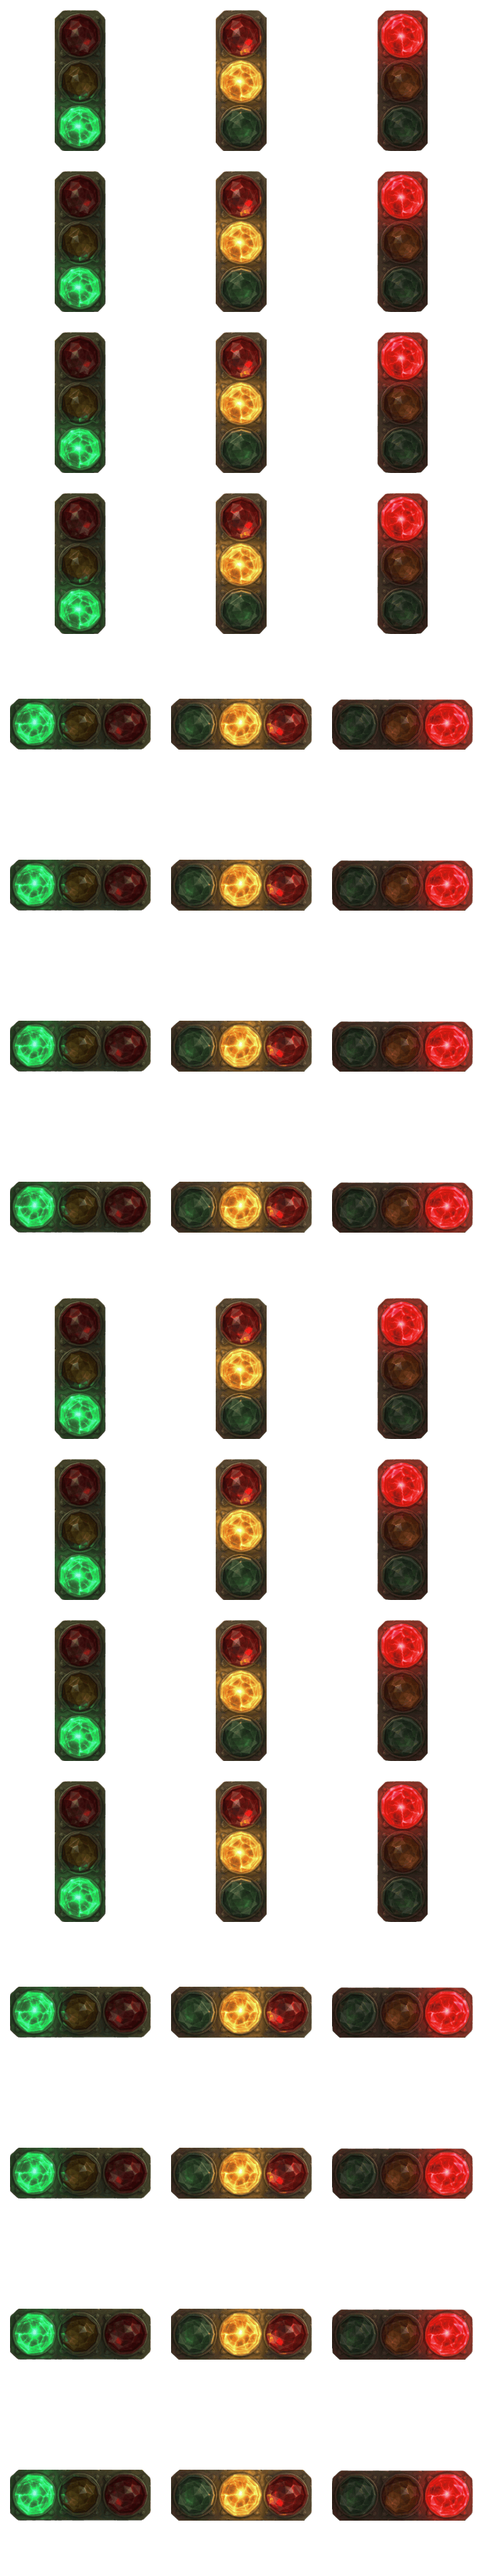
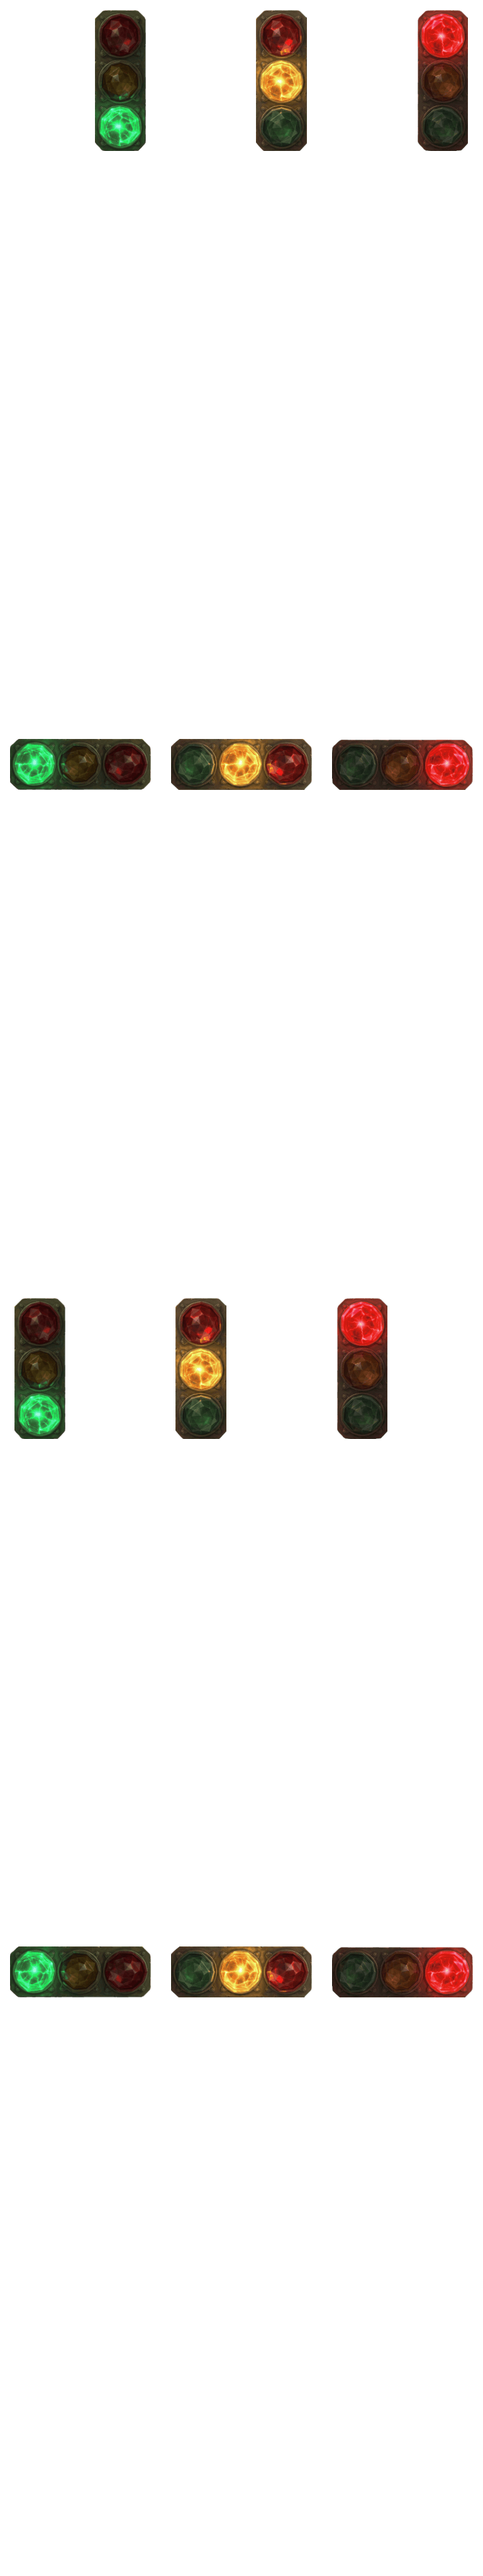
红绿灯最终版本

diff --git a/DEV_CHANGES.md b/DEV_CHANGES.md
@@ -13,6 +13,9 @@
 - **视觉方案更新**：信号状态贴图改为 `cc1/cc2/cc3` 提取生成的新宝石信号样式，保持 `G/Y/R` 三状态映射与 16 方向分组。
 - **尺寸与清晰度平衡**：采用 `256x256` 单帧图集规格（较 `128x128` 更清晰），并继续通过 `scale` 控制游戏内显示尺寸。
 - **颜色二次调优**：在增强版本基础上回调亮度，按列对红/绿状态进一步下调亮度，降低过曝感，保留黄色中间亮度作为对比基准。
+- **方向贴图微调**：对 `0/4/8/12` 四个实际方向执行“朝轨道中心”位移，最终收敛为 `0.3` 格偏移，修正信号贴图与内部铁轨的相对位置。
+- **原版连线隐藏**：仅针对平地信号，移除了 `ground_picture_set` 中的 `rail_piece / upper_rail_piece`，隐藏信号与铁轨之间的原版连接件。
+- **结构简化**：移除 `if signal.ground_picture_set then` 的冗余防御包裹，改为直接赋值，保持原型代码简洁。
 - **资源体积优化**：对最终图集执行 `pngquant` 压缩，将体积从约 `1.8MB` 降至约 `559KB`，在基本不影响观感前提下减少发布包体积。
 - **无用资源清理**：删除本轮实验中未继续使用的中间图、旧图集和备份文件，收敛到当前唯一生效资源。
 
@@ -21,7 +24,10 @@
   - `ground_picture_set.structure.filename` 更新为 `__RiftRail__/graphics/rail-signal-gem-sheet-256-optimized.png`
   - 使用 `width=256`、`height=256`、`frame_count=3`、`direction_count=16` 的图集参数
   - 保持通过 `scale` 进行显示尺寸微调
+  - 平地连接件隐藏：`signal.ground_picture_set.rail_piece = nil`、`signal.ground_picture_set.upper_rail_piece = nil`
+  - 删除 `if signal.ground_picture_set then` 冗余包裹，改为直接设置 `ground_picture_set`
 - `RiftRail/graphics/rail-signal-gem-sheet-256-optimized.png`：新增并启用最终优化图集（压缩后版本）。
+- `RiftRail/graphics/rail-signal-gem-sheet-256-optimized.png`：补充四方向贴图位移微调（`0/4/8/12` 最终采用 `0.3` 格）。
 - `RiftRail/graphics/*`：清理旧的 ring/vortex/small 图集与多余实验贴图。
 
 ### 2026-03-29（v0.13.7：内部红绿灯状态贴图替换）
